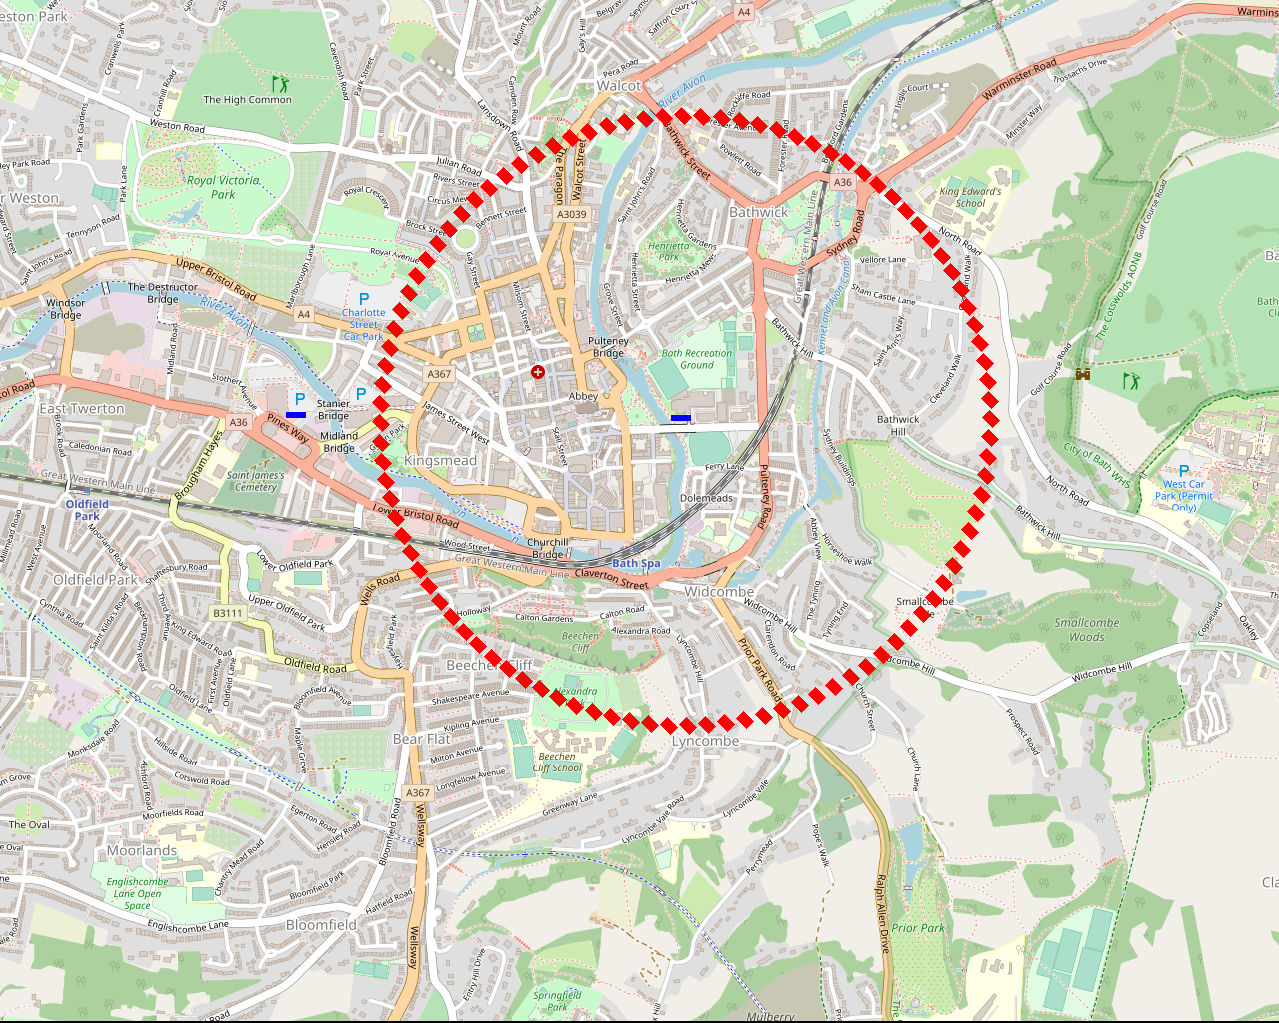
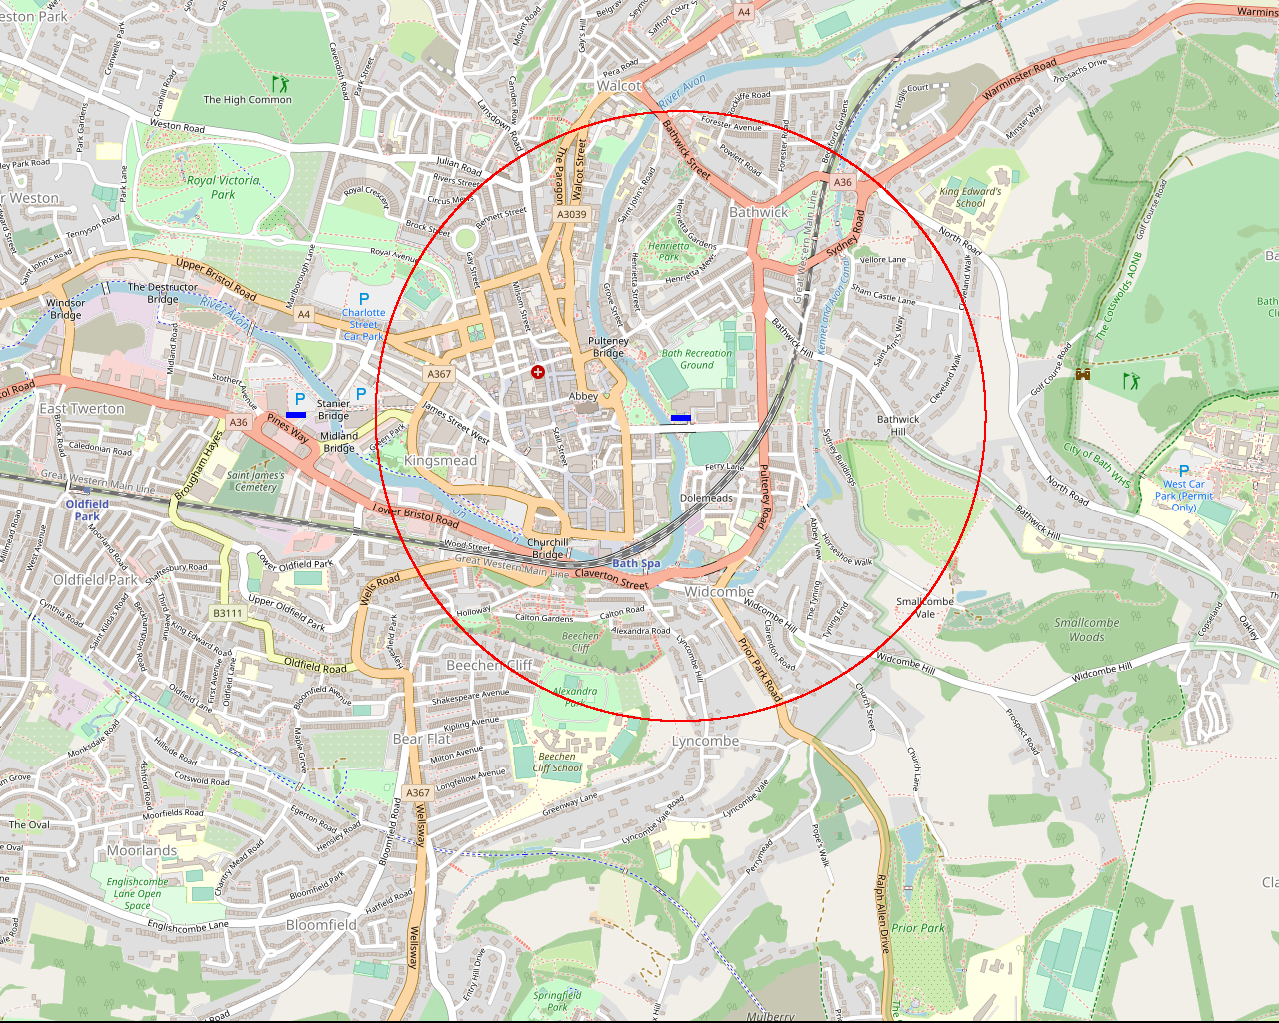
ew

diff --git a/WalksInstaOSM/osm_tiles.py b/WalksInstaOSM/osm_tiles.py
@@ -129,8 +129,8 @@ class Tiles():
         theta = math.asin((c_x-f_x)/math.sqrt((c_x-f_x)**2 + (c_y-f_y)**2.0))
         # Define starting searching radius
         r = 0.005  # ~1km
-        # Define initial number of point on the circle
-        n = 100.0
+        # Define initial number of points on the circle
+        n = 5000.0
         
         img = Image.open("o.png")
         r_x_, r_y_ = self.longlat2pixel((0,0))
@@ -141,7 +141,7 @@ class Tiles():
             draw = ImageDraw.Draw(img)
             x = c_x + r_x*math.cos(theta + i/n*math.pi*2)
             y = c_y + r_y*math.sin(theta + i/n*math.pi*2)
-            draw.line((x,y)+(x+10,y+10),width=10,fill=(255,0,0,0))
+            draw.line((x,y)+(x+1,y),width=2,fill=(255,0,0,0))
         draw.line((c_x,c_y)+(c_x,c_y+5),width=20,fill=(0,0,255,0))
         draw.line((f_x,f_y)+(f_x,f_y+5),width=20,fill=(0,0,255,0))
         img.save("o4.png")
